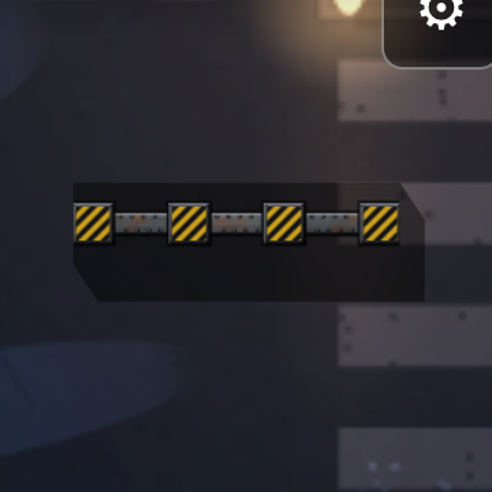
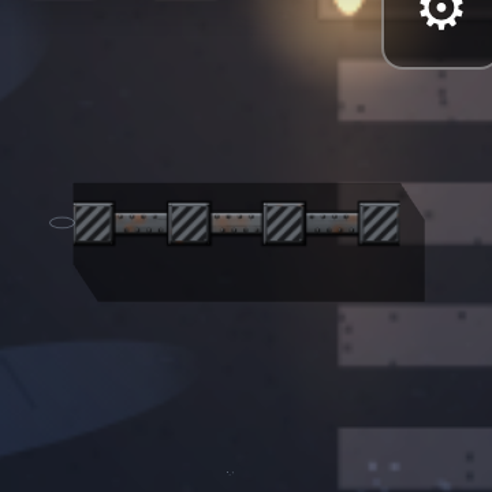
Story 5.9 art: metal barricade without the yellow plate
Designer change: the M1c post caps keep their diagonal stripes in steel tones, no yellow.
Screenshots (5-9-*.png) and the readability picture re-taken.

Claude-Session: https://claude.ai/code/session_01CgLgPTkff2Rt3W1ep32G8f

diff --git a/apps/client/src/render/city/buildingArt.ts b/apps/client/src/render/city/buildingArt.ts
@@ -6,7 +6,7 @@
  * - `drawReinforcedBarricade`: the B8 look (`docs/art/4-11/barricade_upgrade_b8.jpg`): upright
  *   weathered pallets propped by diagonal struts, a coil of barbed wire along the top.
  * - `drawMetalBarricade`: the designer's pick M1c (round 3): strictly top-down riveted steel plates
- *   between four square posts with hazard-striped caps.
+ *   between four square posts with striped caps (no yellow plate: designer, 2026-11-23).
  * - `drawSpikeTrap`: the designer's pick T1, the nail board (rusty nails standing up from weathered
  *   planks), ported from `code-drawings.html › drawT1` and scaled to the 2 × 2 m footprint.
  * - `drawMine`: the designer's pick N6 (round 3): the olive pressure-plate mine with a red light in
@@ -188,14 +188,17 @@ export function drawReinforcedBarricade(g: Ctx, w: number, d: number): void {
   }
 }
 
-/** Yellow/black hazard stripes in a box (the reference's `hazard`). */
+/**
+ * Diagonal stripes in a box (the reference's `hazard`). Designer (2026-11-23): no yellow plate on the
+ * metal barricade: the caps keep their stripes in steel tones (light steel / near-black).
+ */
 function hazard(g: Ctx, x: number, y: number, w: number, h: number, stripe: number): void {
   g.save();
   g.beginPath();
   g.rect(x, y, w, h);
   g.clip();
-  rect(g, x, y, w, h, "#e2b11f");
-  g.fillStyle = "#16161a";
+  rect(g, x, y, w, h, "#6a6f75");
+  g.fillStyle = "#1c1d20";
   for (let k = -h - stripe * 2; k < w + h; k += stripe * 2) {
     g.beginPath();
     g.moveTo(x + k, y + h);
@@ -254,8 +257,9 @@ function steelPlate(g: Ctx, x0: number, y0: number, x1: number, y1: number, base
 
 /**
  * Story 5.9 / designer M1c (round 3, `code-drawings › drawM1c`): the metal barricade, strictly top
- * down: three riveted steel plates between four chunky square posts whose caps carry yellow/black
- * hazard stripes and four hex rivets. Centred on the 2 × 0.5 m footprint (the posts span its depth;
+ * down: three riveted steel plates between four chunky square posts whose caps carry diagonal
+ * steel stripes (designer 2026-11-23: the yellow plate removed) and four hex rivets. Centred on the
+ * 2 × 0.5 m footprint (the posts span its depth;
  * the reference's baked shadow and braces are left to the game's cast shadow).
  */
 export function drawMetalBarricade(g: Ctx, w: number, d: number): void {

diff --git a/_bmad-output/implementation-artifacts/5-9-metal-barricade-spike-trap-and-mine.md b/_bmad-output/implementation-artifacts/5-9-metal-barricade-spike-trap-and-mine.md
@@ -346,3 +346,4 @@ Modified:
 - 2026-11-23: Story 5.9 built (builder, worktree `story-5-9`): wall/floor flag + wall-only flow-field counter across every building loop; spike trap (per-body clock, slow, wear); mine (trigger, shared cover-respecting blast, 50 % to standing players); barricade ladder wood → reinforced (B8) → metal (M1c) with owner-only upgrade message, schema retype, pending panel; code-drawn art (B8, M1c, T1, N6) in one atlas; mine rings and lights; blast FX; `?stressbuild=traps`; tests incl. fuzz, bandwidth, tick cost, netsim, mutations; readability sheet rows. Status → review.
 - 2026-11-23: Merged the work branch (`claude/gracious-turing-0db3j6`: Story 5.3 Shotgun/Assault Rifle + review fixes). Conflicts resolved by keeping both sides (zombie pool/snapshot fields, FxView constants and pools: 5.9's mine blast method renamed `mineBlast` next to 5.3's pellet `blast`; stress switches `?stressfire` + `?stressbuild`; `tickCostDowntown.measure(map, stage, firesOut, weapon, floor)`; five-wave sims). 5.3 added no net event kinds, so 5.9 keeps 27/28; building-type balance order unchanged. 5.3's `applyKnockback` now stops only at WALL buildings (`b.solid`); new floor tests: a knocked zombie slides over a trap and a mine and stops at a barricade (mutation-proven), Shotgun pellets fly over a trap, a mine and a barricade (pellets, like bullets, never test buildings). Readability sheet: 5.3's rows 16–17 first, 5.9's renumbered 18–21 (pictures `19_…`–`22_…`). `docs/art/4-11/README.md`: B8 "now used by Story 5.9". Gate on the merge: 207 files passed (1 skipped), 1,534 tests passed (3 skipped); typecheck, lint, build green; load 4.26 before, 3.37 after.
 - 2026-11-23: Review fixes M1, L1–L4 (see "Review fixes (2026-11-23)").
+- 2026-11-23: Designer art change: the metal barricade (M1c) loses its yellow plate; the post caps keep diagonal stripes in steel tones. Screenshots and the readability picture re-taken; typecheck, lint, client render tests (20 files, 96 tests) green.

diff --git a/docs/playtests/milestone-1/readability-key.md b/docs/playtests/milestone-1/readability-key.md
@@ -18,7 +18,7 @@ Scoring for the 4.10 decision rule: an object is **readable** when ≥ 3 of 4 pl
 | 12 | `11_rain_overall.png` | rain / puddles (night, stage 3) | n/a | mood check, not an object |
 | 13–15 | `14_walker.png`, `15_runner.png`, `16_crawler.png` | Walker (pale, slow), Runner (red, fast, flanks), Crawler (green, low, slows on bite) | n/a | Epic 3 check: can they tell them apart? |
 | 18 | `19_reinforced_barricade.png` | reinforced barricade (player-built, wood tier 2, B8 look) | **through** (stops bodies only) | walk on it: no. Story 5.9 |
-| 19 | `20_metal_barricade.png` | metal barricade (tier 3, M1c look) | **through** (stops bodies only) | walk on it: no. Story 5.9 |
+| 19 | `20_metal_barricade.png` | metal barricade (tier 3, M1c look, no yellow plate) | **through** (stops bodies only) | walk on it: no. Story 5.9 |
 | 20 | `21_spike_trap.png` | spike trap (nail board, floor) | **through** | walk on it: yes (players unharmed); zombies hurt + slowed. Story 5.9 |
 | 21 | `22_mine.png` | mine (floor, single use, N6 look) | **through** | walk on it: yes (players never set it off); inner ring = a zombie touching it sets it off, outer ring = blast (hurts you 40 too). Story 5.9 |
 
